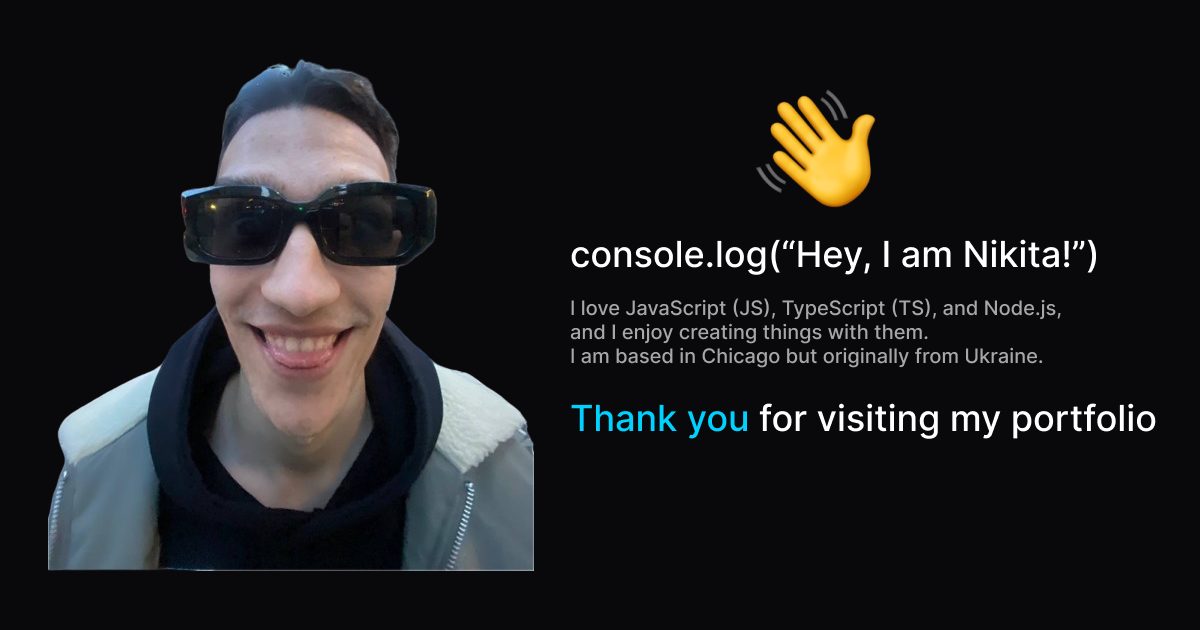
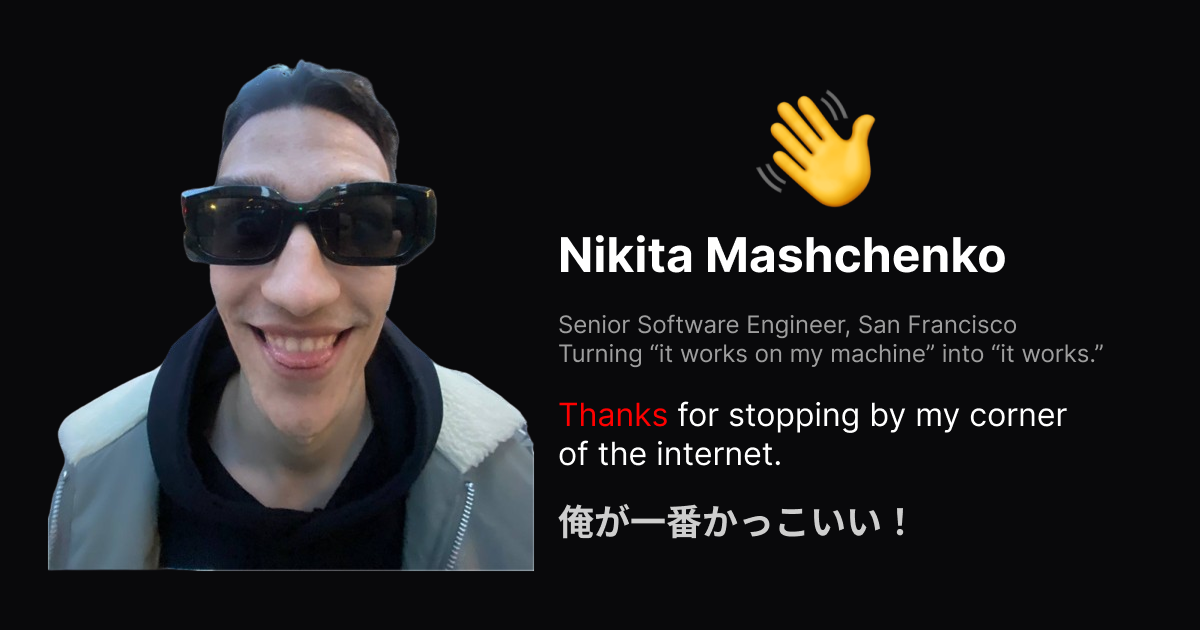
fix: og image, description

Changed region(s): [[0.4625, 0.3619, 0.925, 0.6032], [0.4625, 0.6333, 0.9558, 0.754], [0.4625, 0.7841, 0.7708, 0.8746]]

diff --git a/app/layout.tsx b/app/layout.tsx
@@ -19,11 +19,11 @@ export const metadata: Metadata = {
   },
 
   description:
-    "I'm a software engineer passionate about building a modern web application that users love 🏗",
+    "Software engineer focused on building modern, reliable products end to end, from infrastructure to user experience.",
   openGraph: {
     title: 'Nikita Mashchenko',
-    description:
-      "I'm a software engineer passionate about building a modern web application that users love 🏗",
+  description:
+    "Software engineer focused on building modern, reliable products end to end, from infrastructure to user experience.",
     url: 'https://mashchenko.dev',
     siteName: 'Nikita Mashchenko',
     images: '/og.png',
